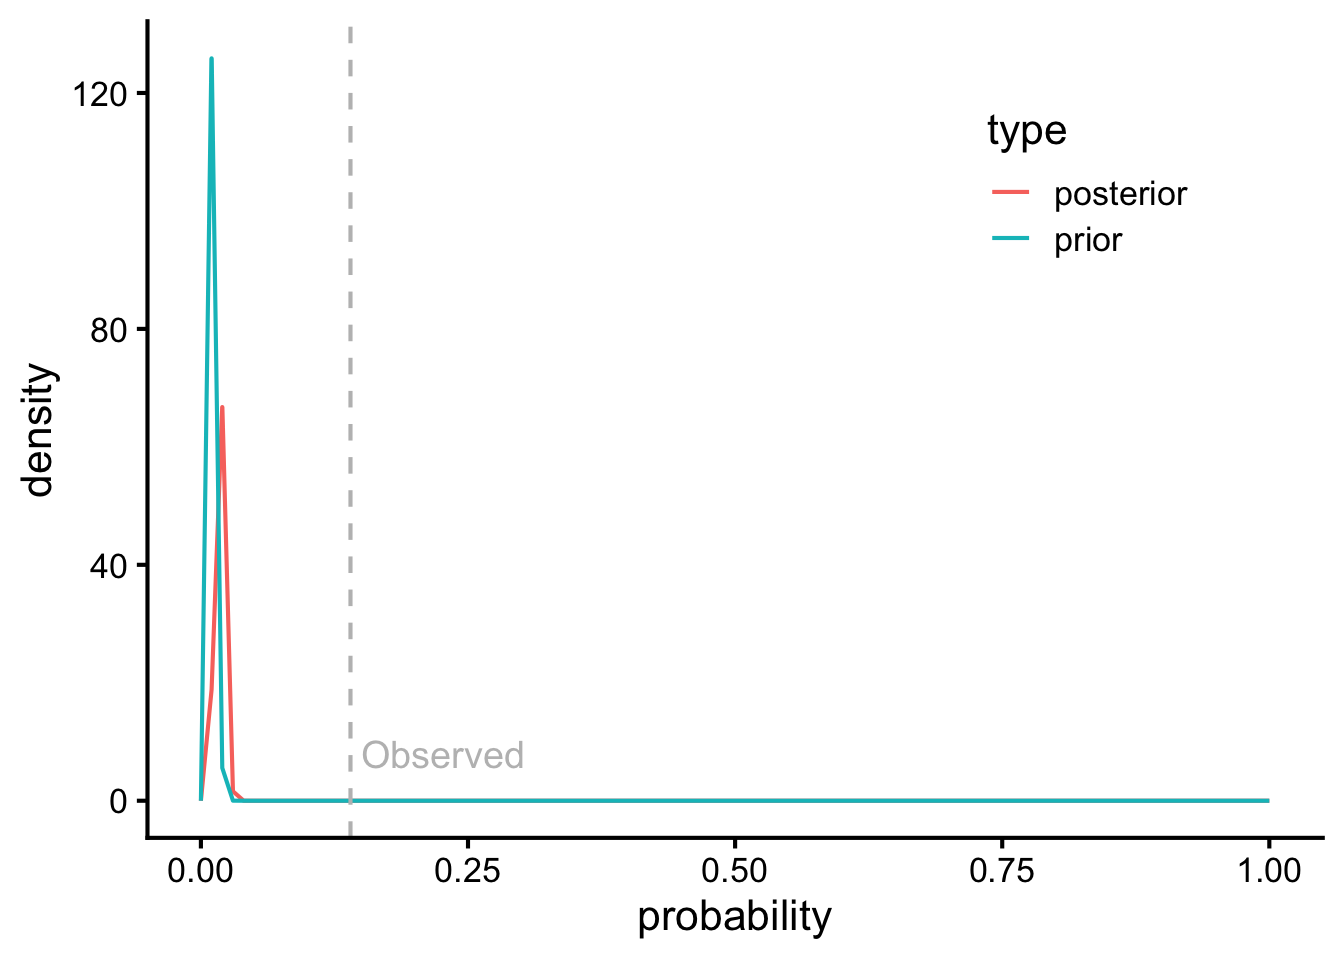
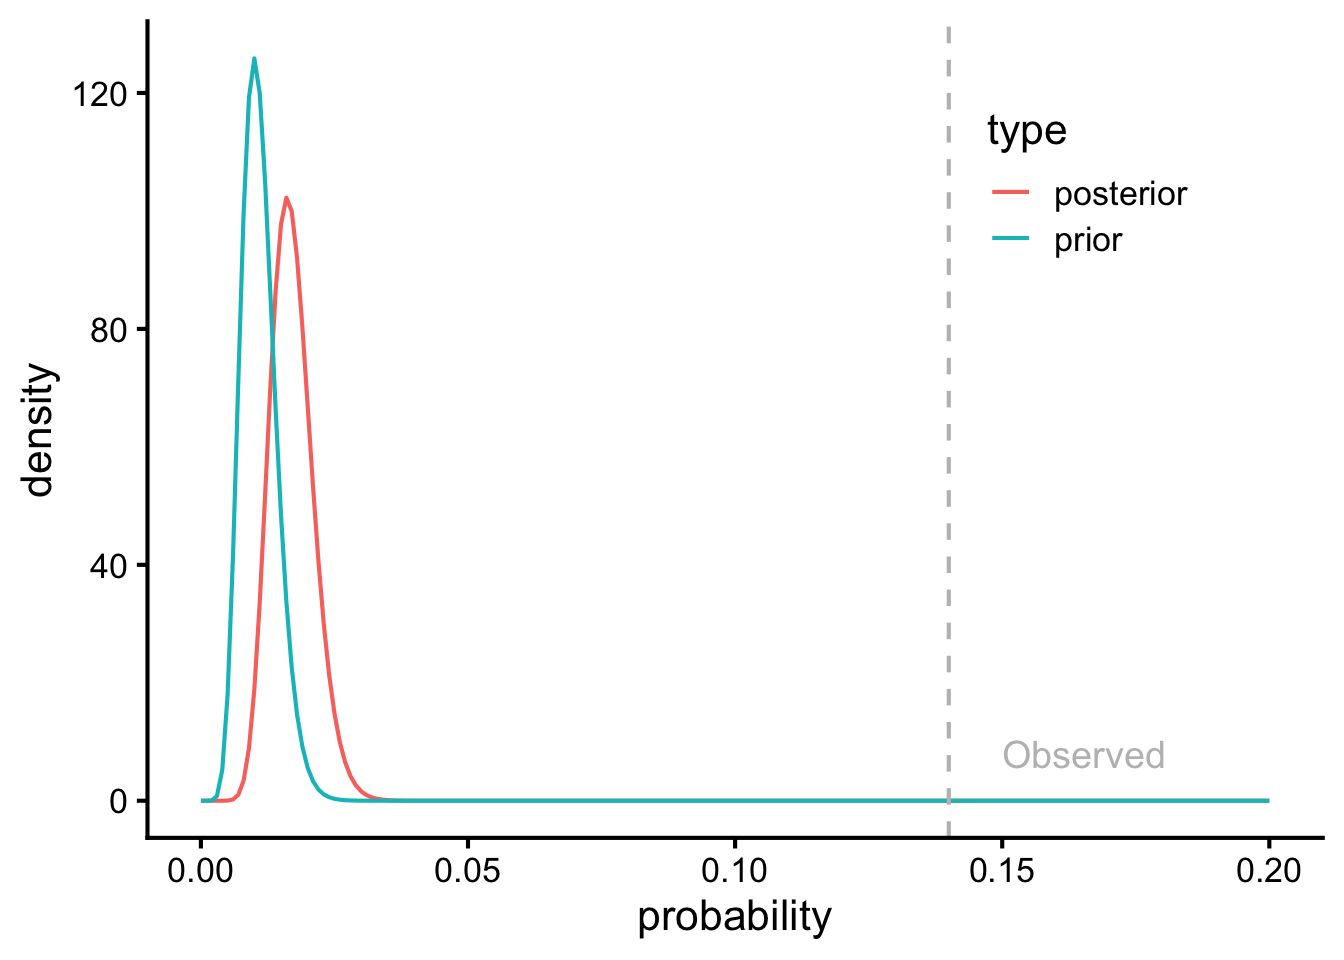
Updated table to summarize conjugate priors

diff --git a/Experimental Policies/Bayesian Learning Notes.html b/Experimental Policies/Bayesian Learning Notes.html
@@ -135,6 +135,7 @@ window.Quarto = {
   <li><a href="#purpose" id="toc-purpose" class="nav-link active" data-scroll-target="#purpose">Purpose</a>
   <ul class="collapse">
   <li><a href="#single-parameter-models" id="toc-single-parameter-models" class="nav-link" data-scroll-target="#single-parameter-models">Single Parameter Models</a></li>
+  <li><a href="#summary-of-conjugate-priors" id="toc-summary-of-conjugate-priors" class="nav-link" data-scroll-target="#summary-of-conjugate-priors">Summary of Conjugate Priors</a></li>
   </ul></li>
   <li><a href="#references" id="toc-references" class="nav-link" data-scroll-target="#references">References</a></li>
   <li><a href="#session-information" id="toc-session-information" class="nav-link" data-scroll-target="#session-information">Session Information</a></li>
@@ -453,7 +454,7 @@ window.Quarto = {
 <div class="cell">
 <details class="code-fold">
 <summary>Show the code</summary>
-<div class="sourceCode cell-code" id="cb9"><pre class="sourceCode r code-with-copy"><code class="sourceCode r"><span id="cb9-1"><a href="#cb9-1" aria-hidden="true" tabindex="-1"></a><span class="fu">data.frame</span>(<span class="at">probability=</span><span class="fu">seq</span>(<span class="dv">0</span>,<span class="dv">1</span>,<span class="at">by=</span><span class="fl">0.01</span>)) <span class="sc">|&gt;</span></span>
+<div class="sourceCode cell-code" id="cb9"><pre class="sourceCode r code-with-copy"><code class="sourceCode r"><span id="cb9-1"><a href="#cb9-1" aria-hidden="true" tabindex="-1"></a><span class="fu">data.frame</span>(<span class="at">probability=</span><span class="fu">seq</span>(<span class="dv">0</span>,<span class="fl">0.2</span>,<span class="at">by=</span><span class="fl">0.001</span>)) <span class="sc">|&gt;</span></span>
 <span id="cb9-2"><a href="#cb9-2" aria-hidden="true" tabindex="-1"></a>  <span class="fu">mutate</span>(<span class="at">prior =</span> <span class="fu">dbeta</span>(probability,<span class="dv">11</span>,<span class="dv">991</span>),</span>
 <span id="cb9-3"><a href="#cb9-3" aria-hidden="true" tabindex="-1"></a>         <span class="at">posterior =</span> <span class="fu">dbeta</span>(probability,<span class="dv">18</span>,<span class="dv">1037</span>)) <span class="sc">|&gt;</span></span>
 <span id="cb9-4"><a href="#cb9-4" aria-hidden="true" tabindex="-1"></a>  <span class="fu">pivot_longer</span>(<span class="fu">c</span>(prior,posterior),<span class="at">names_to=</span><span class="st">"type"</span>,<span class="at">values_to =</span> <span class="st">"density"</span>) <span class="sc">|&gt;</span></span>
@@ -560,6 +561,83 @@ window.Quarto = {
 <p>The updated <span class="math inline">\(\sigma^2\)</span> values are then <span class="math inline">\(E(\sigma^2)=\frac{\beta}{\alpha-1}\)</span>, <span class="math inline">\(Var(\sigma^2)=\frac{\beta^2}{(\alpha-1)^2(\alpha-2)}\)</span>, and <span class="math inline">\(\text{Mode}=\frac{\beta}{\alpha+1}\)</span> so 20.8928571 [12.4523081, 34.8405654] with a modal value of 18.28125. This is compared to the prior estimates which were 27.7777778 [14.6328871, 52.1334173] and a modal value of 22.7272727. As you can see from the figure the posterior shifted left with the updated data that had smaller variance than expected. The updated standard deviation is 4.5708705[3.5287828, 5.9025897] compared to 5. The probability that the value is below 5 is 0.7984651. Note for this case we have to use Gamma rather than Inverse-Gamma due to point arithmetic issues with large arguments in <code>pinvgamma</code>.</p>
 </section>
 </section>
+</section>
+<section id="summary-of-conjugate-priors" class="level3">
+<h3 class="anchored" data-anchor-id="summary-of-conjugate-priors">Summary of Conjugate Priors</h3>
+<table class="caption-top table">
+<colgroup>
+<col style="width: 15%">
+<col style="width: 15%">
+<col style="width: 15%">
+<col style="width: 15%">
+<col style="width: 15%">
+<col style="width: 21%">
+</colgroup>
+<thead>
+<tr class="header">
+<th>Distribution</th>
+<th>Prior</th>
+<th>Posterior</th>
+<th>Mean</th>
+<th>Mode</th>
+<th>Variance</th>
+</tr>
+</thead>
+<tbody>
+<tr class="odd">
+<td><span class="math inline">\(Binomial(n,\theta)\)</span></td>
+<td><span class="math inline">\(Beta(\alpha, \beta)\)</span></td>
+<td><span class="math inline">\(Beta(\alpha + y_o, \beta+n-y_o)\)</span></td>
+<td><span class="math inline">\(\frac{\alpha}{\alpha + \beta}\)</span></td>
+<td><span class="math inline">\(\frac{\alpha-1}{\alpha + \beta - 2}\)</span></td>
+<td><span class="math inline">\(\frac{\alpha \cdot \beta}{(\alpha + \beta)^2(\alpha + \beta + 1)}\)</span></td>
+</tr>
+<tr class="even">
+<td><span class="math inline">\(N(\mu,\sigma^2)\)</span> known mean</td>
+<td><span class="math inline">\(InvGamma(\alpha,\beta)\)</span></td>
+<td><span class="math inline">\(InvGamma(\alpha + \frac{n}{2},\beta + \frac{SS}{2})\)</span></td>
+<td><span class="math inline">\(\frac{\beta}{\alpha-1}\)</span></td>
+<td><span class="math inline">\(\frac{\beta}{\alpha+1}\)</span></td>
+<td><span class="math inline">\(\frac{\beta^2}{(\alpha-1)^2(\alpha-2)}\)</span></td>
+</tr>
+<tr class="odd">
+<td><span class="math inline">\(N(\mu,\sigma^2)\)</span> known variance</td>
+<td><span class="math inline">\(N(\mu_o,\tau^2_o)\)</span></td>
+<td><span class="math inline">\(N\left(
+\frac{\frac{\mu_0}{\tau_0^2} + \frac{n \cdot \bar{y}}{\sigma^2}}
+{\frac{1}{\tau_0^2} + \frac{n}{\sigma^2}},
+\;
+\frac{1}{\frac{1}{\tau_0^2} + \frac{n}{\sigma^2}}
+\right)\)</span></td>
+<td><span class="math inline">\(\mu\)</span></td>
+<td><span class="math inline">\(\mu\)</span></td>
+<td><span class="math inline">\(\sigma^2\)</span></td>
+</tr>
+<tr class="even">
+<td><span class="math inline">\(N(\mu,\sigma^2)\)</span></td>
+<td><span class="math inline">\(N-InvGamma(\mu_0, \kappa_0,\alpha_0,\beta_0)\)</span></td>
+<td><span class="math inline">\(\mu|y ~\sim t(\frac{\kappa_0 \cdot \mu_0 + n \cdot \bar{y}}{\kappa_0+n},\sqrt{\frac{\beta_0+\frac{SS}{2}+\frac{\kappa_0 \cdot n}{2\kappa_0+n}\cdot{(\bar{y}-\mu_0})^2}{\alpha_0+\frac{n}{2} \cdot \kappa_0+n}})\)</span><span class="math inline">\(\sigma^2∣y∼InvGamma(\alpha_0+\frac{n}{2},\beta_0+\frac{SS}{2}+\frac{\kappa_0 \cdot n}{2\kappa_0+n}\cdot{(\bar{y}-\mu_0})^2)\)</span></td>
+<td><span class="math inline">\(\mu\)</span> &nbsp;<span class="math inline">\(\frac{\beta}{\alpha-1}\)</span></td>
+<td><span class="math inline">\(\mu\)</span> &nbsp;<span class="math inline">\(\frac{\beta}{\alpha+1}\)</span></td>
+<td><span class="math inline">\(\frac{\beta}{(\alpha-1)\cdot\kappa}\)</span> <span class="math inline">\(\frac{\beta^2}{(\alpha-1)^2\cdot(\alpha-2)}\)</span></td>
+</tr>
+</tbody>
+</table>
+<p>In these tables:</p>
+<ul>
+<li><span class="math inline">\(\alpha\)</span> and <span class="math inline">\(\beta\)</span> vary depending on the model:
+<ul>
+<li>For inverse gamma distributions <span class="math inline">\(\alpha=\text{successes}+1\)</span> and <span class="math inline">\(\beta=\text{failures}+1\)</span>.</li>
+<li>For normal distributions if using existing data, one heuristic could be <span class="math inline">\(\alpha=\frac{\kappa}{2}\)</span> (prior degrees of freedom) and <span class="math inline">\(\beta=\frac{\sigma^2\cdot\kappa}{2}\)</span> (prior total sum of squares)</li>
+</ul></li>
+<li><span class="math inline">\(n\)</span> is the number of new trials.</li>
+<li><span class="math inline">\(y_o\)</span> is the number of successes.</li>
+<li><span class="math inline">\(SS\)</span> is the sum of squares of the new data.</li>
+<li><span class="math inline">\(\mu\)</span> is the (known in some cases) mean, or the prior pseudo observation.</li>
+<li><span class="math inline">\(\sigma^2\)</span> is the (known in some cases) variance.</li>
+<li><span class="math inline">\(\bar{y}\)</span> is the mean of the new data.</li>
+<li><span class="math inline">\(\kappa\)</span> is the strength of the prior belief in <span class="math inline">\(\mu\)</span>, or the effective sample size</li>
+</ul>
 </section>
 </section>
 <section id="references" class="level2">

diff --git a/Experimental Policies/Bayesian Learning Notes.html.md b/Experimental Policies/Bayesian Learning Notes.html.md
@@ -292,7 +292,7 @@ By this logic, the posterior probability should be $Beta(\alpha+y_o,beta+n-y_o)$
 ::: {.cell}
 
 ```{.r .cell-code}
-data.frame(probability=seq(0,1,by=0.01)) |>
+data.frame(probability=seq(0,0.2,by=0.001)) |>
   mutate(prior = dbeta(probability,11,991),
          posterior = dbeta(probability,18,1037)) |>
   pivot_longer(c(prior,posterior),names_to="type",values_to = "density") |>
@@ -402,6 +402,33 @@ data.frame(variance=seq(0,100,by=1)) |>
 :::
 
 The updated $\sigma^2$ values are then $E(\sigma^2)=\frac{\beta}{\alpha-1}$,  $Var(\sigma^2)=\frac{\beta^2}{(\alpha-1)^2(\alpha-2)}$, and $\text{Mode}=\frac{\beta}{\alpha+1}$ so 20.8928571 [12.4523081, 34.8405654] with a modal value of 18.28125. This is compared to the prior estimates which were 27.7777778 [14.6328871, 52.1334173] and a modal value of 22.7272727.  As you can see from the figure the posterior shifted left with the updated data that had smaller variance than expected.  The updated standard deviation is 4.5708705[3.5287828, 5.9025897] compared to 5.  The probability that the value is below 5 is 0.7984651.  Note for this case we have to use Gamma rather than Inverse-Gamma due to point arithmetic issues with large arguments in `pinvgamma`.
+
+### Summary of Conjugate Priors
+
+| Distribution | Prior | Posterior | Mean | Mode | Variance |
+| --- | --- | --- | --- | --- | ----| 
+| $Binomial(n,\theta)$ | $Beta(\alpha, \beta)$ | $Beta(\alpha + y_o, \beta+n-y_o)$ | $\frac{\alpha}{\alpha + \beta}$  | $\frac{\alpha-1}{\alpha + \beta - 2}$ |$\frac{\alpha \cdot \beta}{(\alpha + \beta)^2(\alpha + \beta + 1)}$ |
+| $N(\mu,\sigma^2)$ known mean | $InvGamma(\alpha,\beta)$ | $InvGamma(\alpha + \frac{n}{2},\beta + \frac{SS}{2})$ | $\frac{\beta}{\alpha-1}$  | $\frac{\beta}{\alpha+1}$ |$\frac{\beta^2}{(\alpha-1)^2(\alpha-2)}$  |
+|$N(\mu,\sigma^2)$ known variance | $N(\mu_o,\tau^2_o)$| $N\left(
+\frac{\frac{\mu_0}{\tau_0^2} + \frac{n \cdot \bar{y}}{\sigma^2}}
+{\frac{1}{\tau_0^2} + \frac{n}{\sigma^2}},
+\;
+\frac{1}{\frac{1}{\tau_0^2} + \frac{n}{\sigma^2}}
+\right)$ | $\mu$ | $\mu$ | $\sigma^2$|
+| $N(\mu,\sigma^2)$ | $N-InvGamma(\mu_0, \kappa_0,\alpha_0,\beta_0)$ | $\mu|y ~\sim t(\frac{\kappa_0 \cdot \mu_0 + n \cdot \bar{y}}{\kappa_0+n},\sqrt{\frac{\beta_0+\frac{SS}{2}+\frac{\kappa_0 \cdot n}{2\kappa_0+n}\cdot{(\bar{y}-\mu_0})^2}{\alpha_0+\frac{n}{2} \cdot \kappa_0+n}})$$\sigma^2∣y∼InvGamma(\alpha_0+\frac{n}{2},\beta_0+\frac{SS}{2}+\frac{\kappa_0 \cdot n}{2\kappa_0+n}\cdot{(\bar{y}-\mu_0})^2)$ | $\mu$ \ $\frac{\beta}{\alpha-1}$| $\mu$ \ $\frac{\beta}{\alpha+1}$ | $\frac{\beta}{(\alpha-1)\cdot\kappa}$ $\frac{\beta^2}{(\alpha-1)^2\cdot(\alpha-2)}$|
+
+In these tables:
+
+- $\alpha$ and $\beta$ vary depending on the model:
+    - For inverse gamma distributions $\alpha=\text{successes}+1$ and $\beta=\text{failures}+1$. 
+    - For normal distributions if using existing data, one heuristic could be $\alpha=\frac{\kappa}{2}$ (prior degrees of freedom) and $\beta=\frac{\sigma^2\cdot\kappa}{2}$ (prior total sum of squares)
+- $n$ is the number of new trials.
+- $y_o$ is the number of successes.
+- $SS$ is the sum of squares of the new data.
+- $\mu$ is the (known in some cases) mean, or the prior pseudo observation.
+- $\sigma^2$ is the (known in some cases) variance.
+- $\bar{y}$ is the mean of the new data.
+- $\kappa$ is the strength of the prior belief in $\mu$, or the effective sample size
 
 ## References
 
